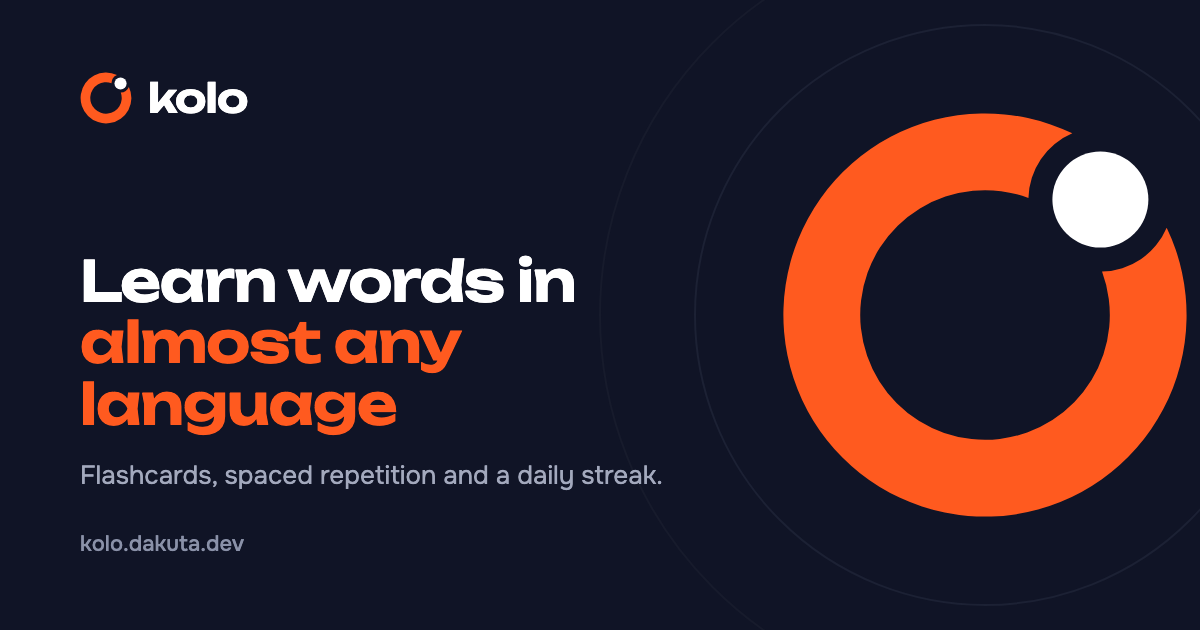
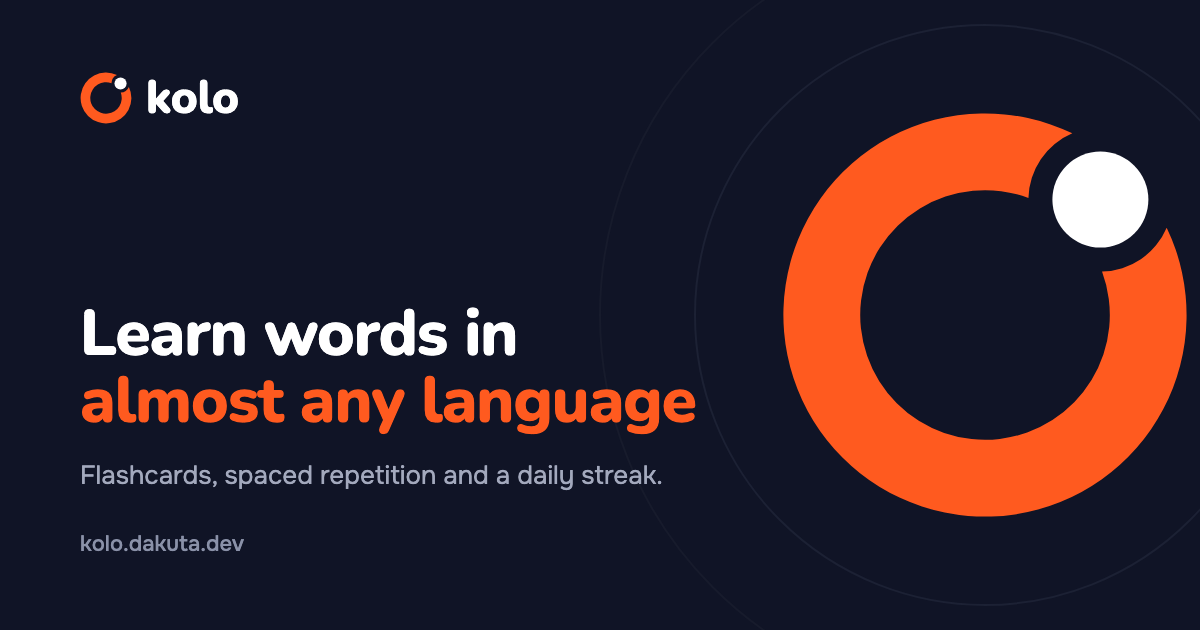
Switch headings and wordmark to Nunito; final polish pass
- Display font: Unbounded → Nunito (headings, large numbers, «kolo»
  wordmark) at font-extrabold; Onest stays for text and UI
- Re-rendered og-image.png with the new wordmark and headline
- Removed @fontsource-variable/unbounded
- Landing phone mock: rating buttons in two rows so longer labels fit
- Removed a debug console.log from text-to-speech
- Design README, /design showcase and the build guard describe the new font

Changed region(s): [[0.0617, 0.3921, 0.5858, 0.6937], [0.1233, 0.1206, 0.2158, 0.181]]

diff --git a/src/components/landing/LandingIllustrations.tsx b/src/components/landing/LandingIllustrations.tsx
@@ -163,7 +163,7 @@ export function HeroPhone() {
                   <Badge>{card.pos}</Badge>
                 </div>
                 <div className="flex-1 grid content-center gap-1.5">
-                  <div className="font-display text-3xl font-semibold text-fg">{card.word}</div>
+                  <div className="font-display text-3xl font-extrabold text-fg">{card.word}</div>
                   <div className="text-lg font-semibold text-accent-ink">{card.translation}</div>
                   <div className="text-xs text-faint leading-snug">{card.example}</div>
                 </div>
@@ -174,13 +174,14 @@ export function HeroPhone() {
             </AnimatePresence>
           </div>
 
-          <div className="grid grid-cols-4 gap-1.5 mt-4">
+          {/* Два ряда по две — в четыре колонки длинные оценки («Забылось», «Remember») не помещаются */}
+          <div className="grid grid-cols-2 gap-1.5 mt-4">
             {h.ratings.map((label, i) => (
               <motion.div
                 key={label}
                 animate={i === HERO_RATINGS[index] ? { scale: [1, 0.92, 1.04, 1] } : { scale: 1 }}
                 transition={{ duration: 0.5, delay: 2 }}
-                className={cx("py-2 px-0.5 rounded-xl text-2xs leading-tight font-semibold text-center hyphens-auto", RATING_TONES[i])}
+                className={cx("truncate rounded-xl px-1 py-1.5 text-center text-2xs font-semibold leading-tight", RATING_TONES[i])}
               >
                 {label}
               </motion.div>
@@ -219,13 +220,13 @@ export function FlashcardsPreview() {
         >
           {flipped ? (
             <>
-              <div className="font-display text-2xl font-semibold text-accent-ink">{card.translation}</div>
+              <div className="font-display text-2xl font-extrabold text-accent-ink">{card.translation}</div>
               <div className="text-xs text-faint leading-snug">{card.example}</div>
             </>
           ) : (
             <>
               <span className="text-2xl leading-none">{card.flag}</span>
-              <div className="font-display text-4xl font-semibold text-fg">{card.word}</div>
+              <div className="font-display text-4xl font-extrabold text-fg">{card.word}</div>
             </>
           )}
         </motion.div>
@@ -240,7 +241,7 @@ export function ReviewPreview() {
   return (
     <div className="flex items-center gap-6 px-5">
       <Ring value={0.4} size={88} stroke={8} label={`${cards.length} ${t.landing.modes.preview.due}`}>
-        <span className="font-display text-2xl font-semibold text-fg">{cards.length}</span>
+        <span className="font-display text-2xl font-extrabold text-fg">{cards.length}</span>
       </Ring>
       <div className="grid gap-2 w-44">
         {cards.map((c, i) => (
@@ -262,7 +263,7 @@ export function QuizPreview() {
     <div className="grid gap-1.5 w-full max-w-56 px-4">
       <div className="text-center pb-1">
         <div className="text-2xs text-faint">{t.landing.modes.preview.question}</div>
-        <div className="font-display text-lg font-semibold text-fg">{cards[1].word}</div>
+        <div className="font-display text-lg font-extrabold text-fg">{cards[1].word}</div>
       </div>
       {cards.map((c, i) => (
         <div
@@ -285,10 +286,10 @@ export function SpeedPreview() {
   return (
     <div className="flex items-center gap-5">
       <Ring value={42 / 60} size={92} stroke={8} label="0:42">
-        <span className="font-display text-lg font-semibold text-fg tabular-nums">0:42</span>
+        <span className="font-display text-lg font-extrabold text-fg tabular-nums">0:42</span>
       </Ring>
       <div>
-        <div className="font-display text-3xl font-semibold text-fg">12</div>
+        <div className="font-display text-3xl font-extrabold text-fg">12</div>
         <div className="text-xs text-faint">{t.landing.modes.preview.score}</div>
       </div>
     </div>
@@ -305,7 +306,7 @@ export function SurvivalPreview() {
           <Heart key={i} size={30} className={i < 2 ? "text-danger fill-danger" : "text-track fill-track"} />
         ))}
       </div>
-      <span className="rounded-full bg-surface border border-line px-4 py-1.5 font-display text-base font-semibold text-fg">
+      <span className="rounded-full bg-surface border border-line px-4 py-1.5 font-display text-base font-extrabold text-fg">
         {card.word}
       </span>
     </div>
@@ -489,7 +490,7 @@ export function StreakPreview() {
     <div className="grid gap-4 w-full max-w-64 px-4">
       <div className="flex items-end justify-center gap-2">
         <Flame size={30} className="text-accent fill-accent self-center" />
-        <span className="font-display text-4xl font-semibold leading-none text-fg">14</span>
+        <span className="font-display text-4xl font-extrabold leading-none text-fg">14</span>
         <span className="text-sm text-faint">{h.days}</span>
       </div>
       <div className="grid grid-cols-7 gap-1">
@@ -526,7 +527,7 @@ export function DailyPreview() {
               key={letter}
               style={{ clipPath: HEX }}
               className={cx(
-                "w-11 h-12 grid place-items-center font-display text-base font-semibold",
+                "w-11 h-12 grid place-items-center font-display text-base font-extrabold",
                 letter === "E" ? "bg-accent text-on-accent" : "bg-surface text-fg",
               )}
             >
@@ -617,7 +618,7 @@ export function AudioPreview() {
   return (
     <div className="grid justify-items-center gap-5 px-4 text-center">
       <div>
-        <div className="font-display text-4xl font-semibold text-fg">uttale</div>
+        <div className="font-display text-4xl font-extrabold text-fg">uttale</div>
         <div className="mt-1 text-base font-semibold text-accent-ink">{t.landing.words.audioTranslation}</div>
       </div>
       <div className="flex items-center gap-4">

diff --git a/src/components/game/DailyGameModal.tsx b/src/components/game/DailyGameModal.tsx
@@ -293,7 +293,7 @@ export default function DailyGameModal({ onClose }: Props) {
               {/* Набранное слово; центральная буква — оранжевая */}
               <div className="mb-6 flex min-h-12 items-center justify-center text-center">
                 {current ? (
-                  <span className="font-display text-3xl font-semibold tracking-wider text-fg">
+                  <span className="font-display text-3xl font-extrabold tracking-wider text-fg">
                     {current.split('').map((ch, i) => (
                       <span key={i} className={ch === puzzle.center ? 'text-accent-ink' : undefined}>
                         {ch}
@@ -331,7 +331,7 @@ export default function DailyGameModal({ onClose }: Props) {
                     className="mt-6 grid w-full gap-1 rounded-3xl bg-inset p-4"
                   >
                     <p className="text-xs font-semibold text-muted">{tg.wordDefinition}</p>
-                    <p className="font-display text-lg font-semibold text-fg">{selectedWordDef.word}</p>
+                    <p className="font-display text-lg font-extrabold text-fg">{selectedWordDef.word}</p>
                     <p className="text-sm leading-snug text-muted">{selectedWordDef.def.no}</p>
                     {language !== 'no' && (
                       <p className="text-sm italic leading-snug text-faint">
@@ -416,7 +416,7 @@ export default function DailyGameModal({ onClose }: Props) {
                             {row.foundPangram && ` · ${tg.pangramBadge}`}
                           </p>
                         </div>
-                        <span className="font-display text-base font-semibold tabular-nums text-accent-ink">{row.score}</span>
+                        <span className="font-display text-base font-extrabold tabular-nums text-accent-ink">{row.score}</span>
                       </li>
                     );
                   })}
@@ -450,7 +450,7 @@ function HoneyComb({ letters, center, onPress }: {
       type="button"
       aria-label={letter}
       className={cx(
-        'flex h-17 w-17 select-none items-center justify-center rounded-3xl font-display text-xl font-semibold uppercase transition-colors',
+        'flex h-17 w-17 select-none items-center justify-center rounded-3xl font-display text-xl font-extrabold uppercase transition-colors',
         isCenter ? 'bg-accent text-on-accent' : 'bg-inset text-fg hover:bg-track',
       )}
     >

diff --git a/src/pages/profile/ProfilePage.tsx b/src/pages/profile/ProfilePage.tsx
@@ -285,7 +285,7 @@ export default function ProfilePage() {
                 <div
                   draggable // чтобы пасхалка срабатывала и без фото
                   onDragStart={handleAvatarEasterEgg}
-                  className="grid h-full w-full place-items-center font-display text-3xl font-semibold text-accent-ink sm:text-4xl"
+                  className="grid h-full w-full place-items-center font-display text-3xl font-extrabold text-accent-ink sm:text-4xl"
                 >
                   {profile.displayName.charAt(0).toUpperCase()}
                 </div>
@@ -423,7 +423,7 @@ export default function ProfilePage() {
           <div>
             <p
               className={cx(
-                "font-display text-6xl font-semibold leading-none tabular-nums sm:text-7xl",
+                "font-display text-6xl font-extrabold leading-none tabular-nums sm:text-7xl",
                 isTodayActive ? "text-on-inverse" : "text-fg",
               )}
             >
@@ -461,7 +461,7 @@ export default function ProfilePage() {
               ].map((row) => (
                 <div key={row.label} className="flex items-baseline justify-between gap-4 py-3 first:pt-0 last:pb-0">
                   <dt className="text-sm text-muted">{row.label}</dt>
-                  <dd className="font-display text-xl font-semibold tabular-nums text-fg">{row.value}</dd>
+                  <dd className="font-display text-xl font-extrabold tabular-nums text-fg">{row.value}</dd>
                 </div>
               ))}
             </dl>
@@ -571,7 +571,7 @@ function Stat({ icon, value, label }: { icon: ReactNode; value: ReactNode; label
     <div className="grid content-start gap-3">
       <span className="grid h-9 w-9 place-items-center rounded-xl bg-inset text-muted">{icon}</span>
       <div>
-        <p className="font-display text-2xl font-semibold leading-tight tabular-nums text-fg sm:text-3xl">{value}</p>
+        <p className="font-display text-2xl font-extrabold leading-tight tabular-nums text-fg sm:text-3xl">{value}</p>
         <p className="mt-1 text-sm text-muted">{label}</p>
       </div>
     </div>

diff --git a/src/pages/auth/LandingPage.tsx b/src/pages/auth/LandingPage.tsx
@@ -304,7 +304,7 @@ export default function LandingPage() {
                   >
                     <div aria-hidden className="rounded-full bg-band p-1.5">
                       <Ring value={(i + 1) / l.how.steps.length} size={60} stroke={6} label={step.title}>
-                        <span className="font-display text-xl font-semibold text-fg">{i + 1}</span>
+                        <span className="font-display text-xl font-extrabold text-fg">{i + 1}</span>
                       </Ring>
                     </div>
                     <Heading size={3}>{step.title}</Heading>
@@ -488,7 +488,7 @@ export default function LandingPage() {
                 className="group flex items-start gap-4 rounded-3xl bg-[#13121B] p-5 text-white"
               >
                 <span className="grid flex-1 gap-1">
-                  <span className="font-display text-xl font-semibold">Woky</span>
+                  <span className="font-display text-xl font-extrabold">Woky</span>
                   <span className="text-sm text-white/65">{e.woky.tagline}</span>
                 </span>
                 <ArrowUpRight size={18} className="shrink-0 text-[#A5B4FC] transition-transform group-hover:-translate-y-0.5 group-hover:translate-x-0.5" />
@@ -501,7 +501,7 @@ export default function LandingPage() {
               >
                 <span className="grid flex-1 gap-1">
                   <span className="flex items-center gap-2">
-                    <span className="font-display text-xl font-semibold text-fg">
+                    <span className="font-display text-xl font-extrabold text-fg">
                       Bøy<span className="text-[#C0553B]">!</span>
                     </span>
                     <Badge tone="warning">{e.comingSoon}</Badge>

diff --git a/src/pages/home/HomePage.tsx b/src/pages/home/HomePage.tsx
@@ -66,7 +66,7 @@ export default function HomePage() {
           {profile?.photoURL || user?.photoURL ? (
             <img src={profile?.photoURL || user?.photoURL || ""} alt="" className="h-12 w-12 shrink-0 rounded-full object-cover" />
           ) : (
-            <span aria-hidden className="grid h-12 w-12 shrink-0 place-items-center rounded-full bg-accent-soft font-display text-lg font-semibold text-accent-ink">
+            <span aria-hidden className="grid h-12 w-12 shrink-0 place-items-center rounded-full bg-accent-soft font-display text-lg font-extrabold text-accent-ink">
               {name.charAt(0).toUpperCase()}
             </span>
           )}
@@ -104,7 +104,7 @@ export default function HomePage() {
             track="inverse"
             label={`${h.goal.label}: ${todayStudied} / ${dailyGoal}`}
           >
-            <span className="font-display text-2xl font-semibold text-on-inverse">
+            <span className="font-display text-2xl font-extrabold text-on-inverse">
               {todayStudied}
               <span className="text-base text-on-inverse/50">/{dailyGoal}</span>
             </span>
@@ -187,7 +187,7 @@ function StatCard({ icon, value, label }: { icon: React.ReactNode; value: number
     <Card className="grid content-between gap-6">
       <span className="grid h-9 w-9 place-items-center rounded-xl bg-inset text-muted">{icon}</span>
       <div>
-        <p className="font-display text-3xl font-semibold leading-none text-fg tabular-nums">{value}</p>
+        <p className="font-display text-3xl font-extrabold leading-none text-fg tabular-nums">{value}</p>
         <p className="mt-1.5 text-sm text-muted">{label}</p>
       </div>
     </Card>

diff --git a/src/pages/other/ExplorePage.tsx b/src/pages/other/ExplorePage.tsx
@@ -56,17 +56,17 @@ export default function ExplorePage() {
         }
       >
         <span className="rounded-full bg-white/10 px-3 py-1 text-xs font-semibold text-[#A5B4FC]">{e.woky.category}</span>
-        <p className="font-display text-4xl font-bold leading-none sm:text-5xl">
+        <p className="font-display text-4xl font-extrabold leading-none sm:text-5xl">
           <span className="text-[#A5B4FC]">Norsk</span> <span className="text-white">Grammatikk</span>
         </p>
         <p className="max-w-sm text-sm leading-relaxed text-white/70">{e.woky.tagline}</p>
         <div className="mt-2 flex gap-8">
           <div>
-            <p className="font-display text-2xl font-semibold">10</p>
+            <p className="font-display text-2xl font-extrabold">10</p>
             <p className="text-xs text-white/60">{e.woky.sections}</p>
           </div>
           <div>
-            <p className="font-display text-2xl font-semibold">97</p>
+            <p className="font-display text-2xl font-extrabold">97</p>
             <p className="text-xs text-white/60">{e.woky.exercises}</p>
           </div>
         </div>
@@ -84,7 +84,7 @@ export default function ExplorePage() {
         }
       >
         <span className="rounded-full bg-[#C0553B]/10 px-3 py-1 text-xs font-semibold text-[#C0553B]">{e.comingSoon}</span>
-        <p className="font-display text-4xl font-bold leading-none sm:text-5xl">
+        <p className="font-display text-4xl font-extrabold leading-none sm:text-5xl">
           Bøy<span className="text-[#C0553B]">!</span>
         </p>
         <p className="max-w-sm text-sm leading-relaxed text-[#1E1915]/70">{e.boey.tagline}</p>

diff --git a/src/components/cards/Flashcard.tsx b/src/components/cards/Flashcard.tsx
@@ -33,7 +33,7 @@ export default function Flashcard({ card, isFlipped, language = "nb-NO", onFlip 
         {/* Лицо: слово */}
         <div className="flip-card-front absolute h-full w-full">
           <div className="flex h-full w-full flex-col items-center justify-center gap-4 rounded-4xl bg-fg p-8 text-on-inverse shadow-xl">
-            <h2 className="text-center font-display text-4xl font-semibold leading-tight wrap-break-word sm:text-5xl md:text-6xl">{card.word}</h2>
+            <h2 className="text-center font-display text-4xl font-extrabold leading-tight wrap-break-word sm:text-5xl md:text-6xl">{card.word}</h2>
             {card.partOfSpeech && (
               <span className="rounded-full bg-on-inverse/10 px-3 py-1 text-sm font-medium text-on-inverse/80">{card.partOfSpeech}</span>
             )}
@@ -62,7 +62,7 @@ export default function Flashcard({ card, isFlipped, language = "nb-NO", onFlip 
 
             <div className="mx-auto flex w-full max-w-2xl flex-1 flex-col items-center justify-center gap-6 pt-10 text-center">
               <div className="grid gap-2">
-                <h3 className="font-display text-3xl font-semibold text-fg md:text-4xl">{card.word}</h3>
+                <h3 className="font-display text-3xl font-extrabold text-fg md:text-4xl">{card.word}</h3>
                 {card.partOfSpeech && <p className="text-sm text-faint">{card.partOfSpeech}</p>}
                 {showTranslation && <p className="text-2xl font-semibold text-accent-ink md:text-3xl">{card.translation}</p>}
               </div>

diff --git a/src/pages/design/DesignPage.tsx b/src/pages/design/DesignPage.tsx
@@ -145,7 +145,7 @@ export default function DesignPage() {
           </div>
         </Section>
 
-        <Section title="Типографика" note="Unbounded — заголовки экранов и секций, Onest — всё остальное. Капс — только Eyebrow.">
+        <Section title="Типографика" note="Nunito — заголовки экранов и секций, крупные цифры и логотип; Onest — всё остальное. Капс — только Eyebrow.">
           <div className="grid gap-4">
             <Eyebrow>Eyebrow — метка над заголовком</Eyebrow>
             <Heading size="display">Display · Каждое слово идёт по кругу</Heading>
@@ -286,7 +286,7 @@ export default function DesignPage() {
               <span className="text-xs font-semibold text-success">100%</span>
             </Ring>
             <Ring value={0.5} size={96} stroke={9} tone="info" label="Выучено 50%">
-              <span className="font-display font-bold text-xl text-fg">50</span>
+              <span className="font-display font-extrabold text-xl text-fg">50</span>
             </Ring>
           </div>
         </Section>

diff --git a/src/components/session/SessionResult.tsx b/src/components/session/SessionResult.tsx
@@ -63,7 +63,7 @@ export default function SessionResult({
     >
       <div className="grid justify-items-center gap-3 pt-2 text-center">
         <span className={cx("grid h-14 w-14 place-items-center rounded-2xl", TILE_TONES[tone])}>{icon}</span>
-        <h2 className="font-display text-3xl font-semibold text-fg">{title}</h2>
+        <h2 className="font-display text-3xl font-extrabold text-fg">{title}</h2>
         {subtitle && (
           <Text size="sm" tone="muted">
             {subtitle}
@@ -73,7 +73,7 @@ export default function SessionResult({
       <div className={cx("mt-6 grid gap-2", metrics.length >= 4 ? "grid-cols-2 sm:grid-cols-4" : metrics.length === 3 ? "grid-cols-3" : "grid-cols-2")}>
         {metrics.map((m) => (
           <div key={m.label} className="rounded-2xl bg-inset px-3 py-3 text-center">
-            <p className={cx("font-display text-2xl font-semibold tabular-nums", VALUE_TONES[m.tone ?? "default"])}>{m.value}</p>
+            <p className={cx("font-display text-2xl font-extrabold tabular-nums", VALUE_TONES[m.tone ?? "default"])}>{m.value}</p>
             <p className="mt-0.5 text-xs text-muted">{m.label}</p>
           </div>
         ))}

diff --git a/src/components/StreakCelebration.tsx b/src/components/StreakCelebration.tsx
@@ -75,12 +75,12 @@ export default function StreakCelebration({ isOpen, streak, onClose }: Props) {
             <Ring value={filled ? 1 : 0} size={148} stroke={10} label={plural(getLanguageInfo(language).htmlLang, streak, st.days)}>
               <span className="grid justify-items-center">
                 <Flame size={26} className="fill-accent text-accent" />
-                <span className="font-display text-5xl font-semibold leading-none text-fg">{streak}</span>
+                <span className="font-display text-5xl font-extrabold leading-none text-fg">{streak}</span>
               </span>
             </Ring>
             <div className="grid gap-1">
               <p className="text-sm font-semibold text-accent-ink">{st.extended}</p>
-              <h2 className="font-display text-2xl font-semibold text-fg">{plural(getLanguageInfo(language).htmlLang, streak, st.days)}</h2>
+              <h2 className="font-display text-2xl font-extrabold text-fg">{plural(getLanguageInfo(language).htmlLang, streak, st.days)}</h2>
               <p className="text-sm text-muted">{cheer}</p>
             </div>
             <p className="text-xs text-faint">{st.tap}</p>

diff --git a/src/components/quiz/MatchingExercise.tsx b/src/components/quiz/MatchingExercise.tsx
@@ -86,7 +86,7 @@ export default function MatchingExercise({ pairs, onComplete }: MatchingExercise
     <div className="relative mx-auto max-w-2xl">
       {/* Заголовок и подсказка: сначала слово, потом перевод */}
       <div className="mb-5 grid gap-1 text-center">
-        <h2 className="font-display text-2xl font-semibold text-fg">{t.words.quiz.matching.title}</h2>
+        <h2 className="font-display text-2xl font-extrabold text-fg">{t.words.quiz.matching.title}</h2>
         <p className="text-sm text-muted">
           {selectedWord
             ? t.words.quiz.matching.hint.split(',')[1]?.trim() || t.words.quiz.matching.hint
@@ -153,7 +153,7 @@ export default function MatchingExercise({ pairs, onComplete }: MatchingExercise
         >
           <div className="text-center">
             <CheckCircle2 size={48} className="text-success mx-auto mb-3" />
-            <p className="font-display text-xl font-semibold text-success">
+            <p className="font-display text-xl font-extrabold text-success">
               {t.words.quiz.matching.complete}
             </p>
           </div>

diff --git a/src/ui/Typography.tsx b/src/ui/Typography.tsx
@@ -3,11 +3,11 @@ import { cx } from "./cx";
 
 type HeadingSize = "display" | 1 | 2 | 3 | 4;
 
-// display и 1–2 — Unbounded (заголовки экранов и секций); 3–4 — Onest (заголовки карточек и групп)
+// display и 1–2 — Nunito (заголовки экранов и секций); 3–4 — Onest (заголовки карточек и групп)
 const HEADING: Record<HeadingSize, string> = {
-  display: "font-display font-bold text-4xl sm:text-5xl leading-[1.08] tracking-tight",
-  1: "font-display font-bold text-3xl sm:text-4xl leading-tight tracking-tight",
-  2: "font-display font-semibold text-2xl sm:text-3xl leading-tight",
+  display: "font-display font-extrabold text-4xl sm:text-5xl leading-[1.08] tracking-tight",
+  1: "font-display font-extrabold text-3xl sm:text-4xl leading-tight tracking-tight",
+  2: "font-display font-extrabold text-2xl sm:text-3xl leading-tight",
   3: "font-semibold text-lg leading-snug",
   4: "font-semibold text-base leading-snug",
 };
